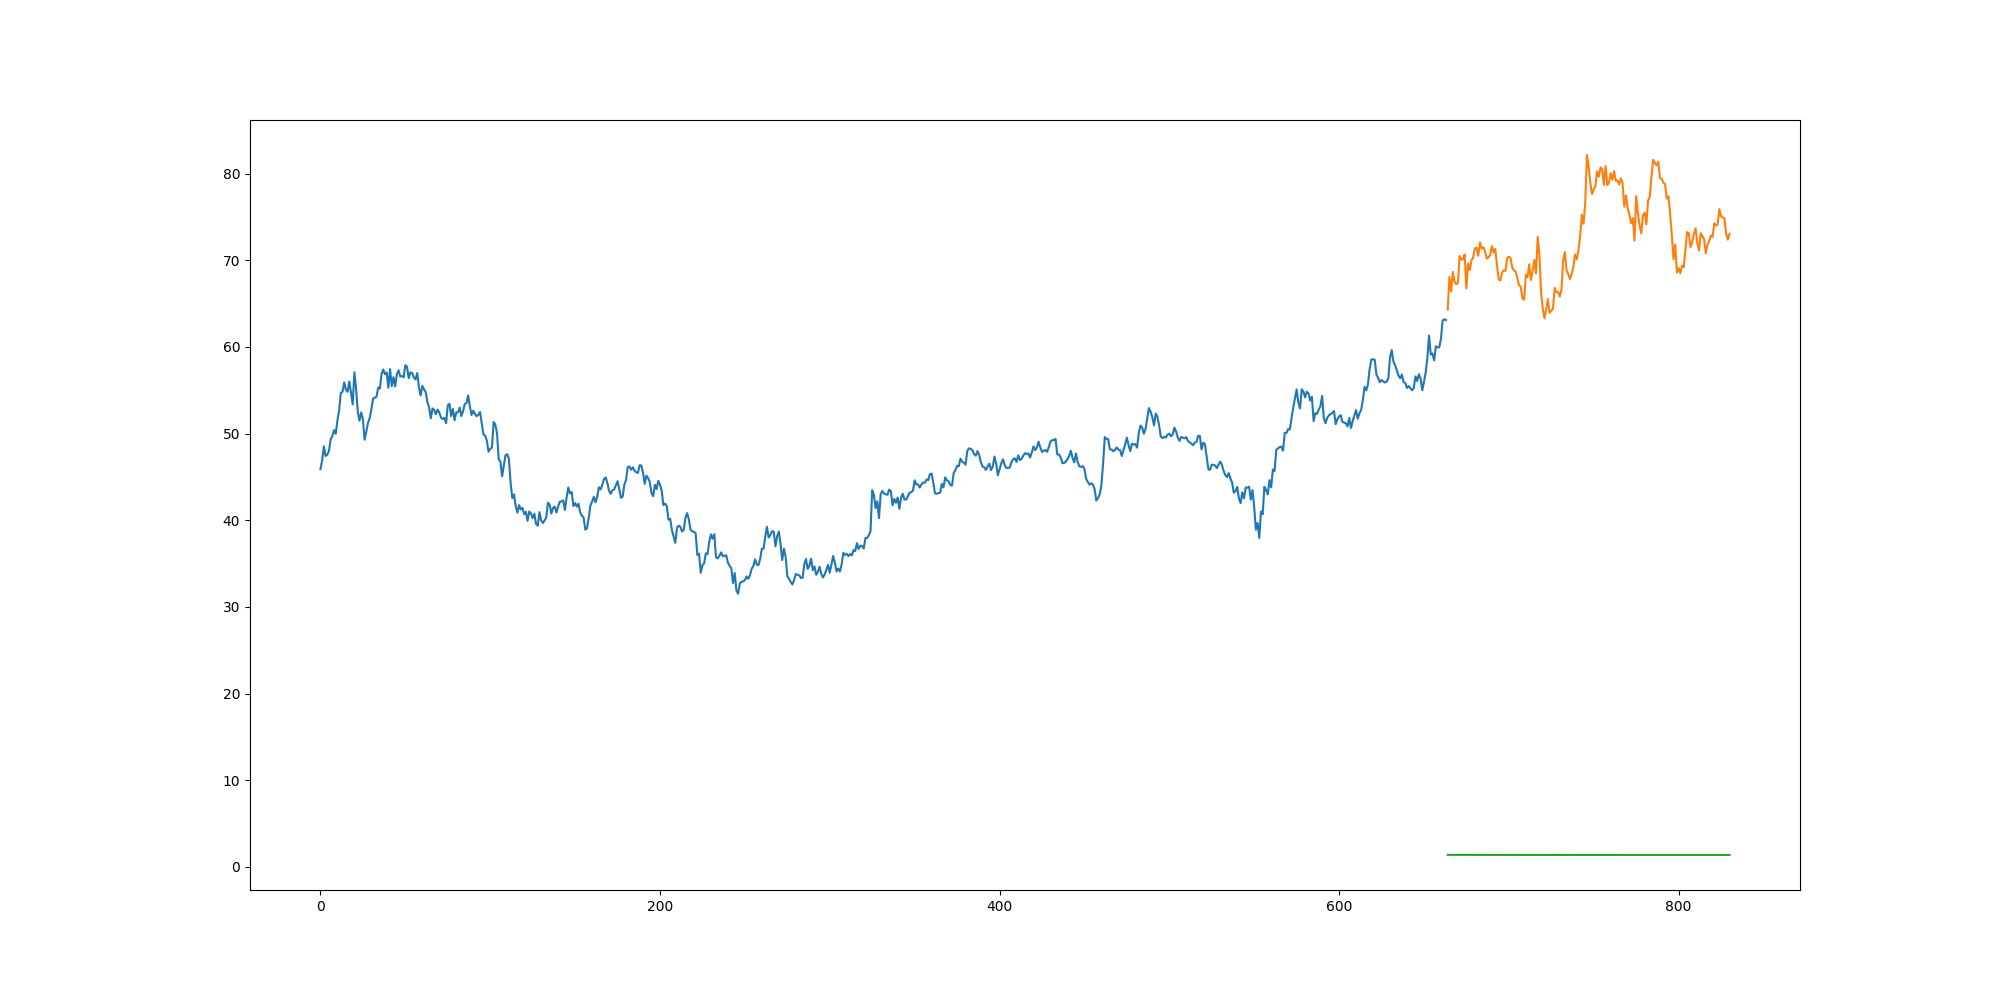
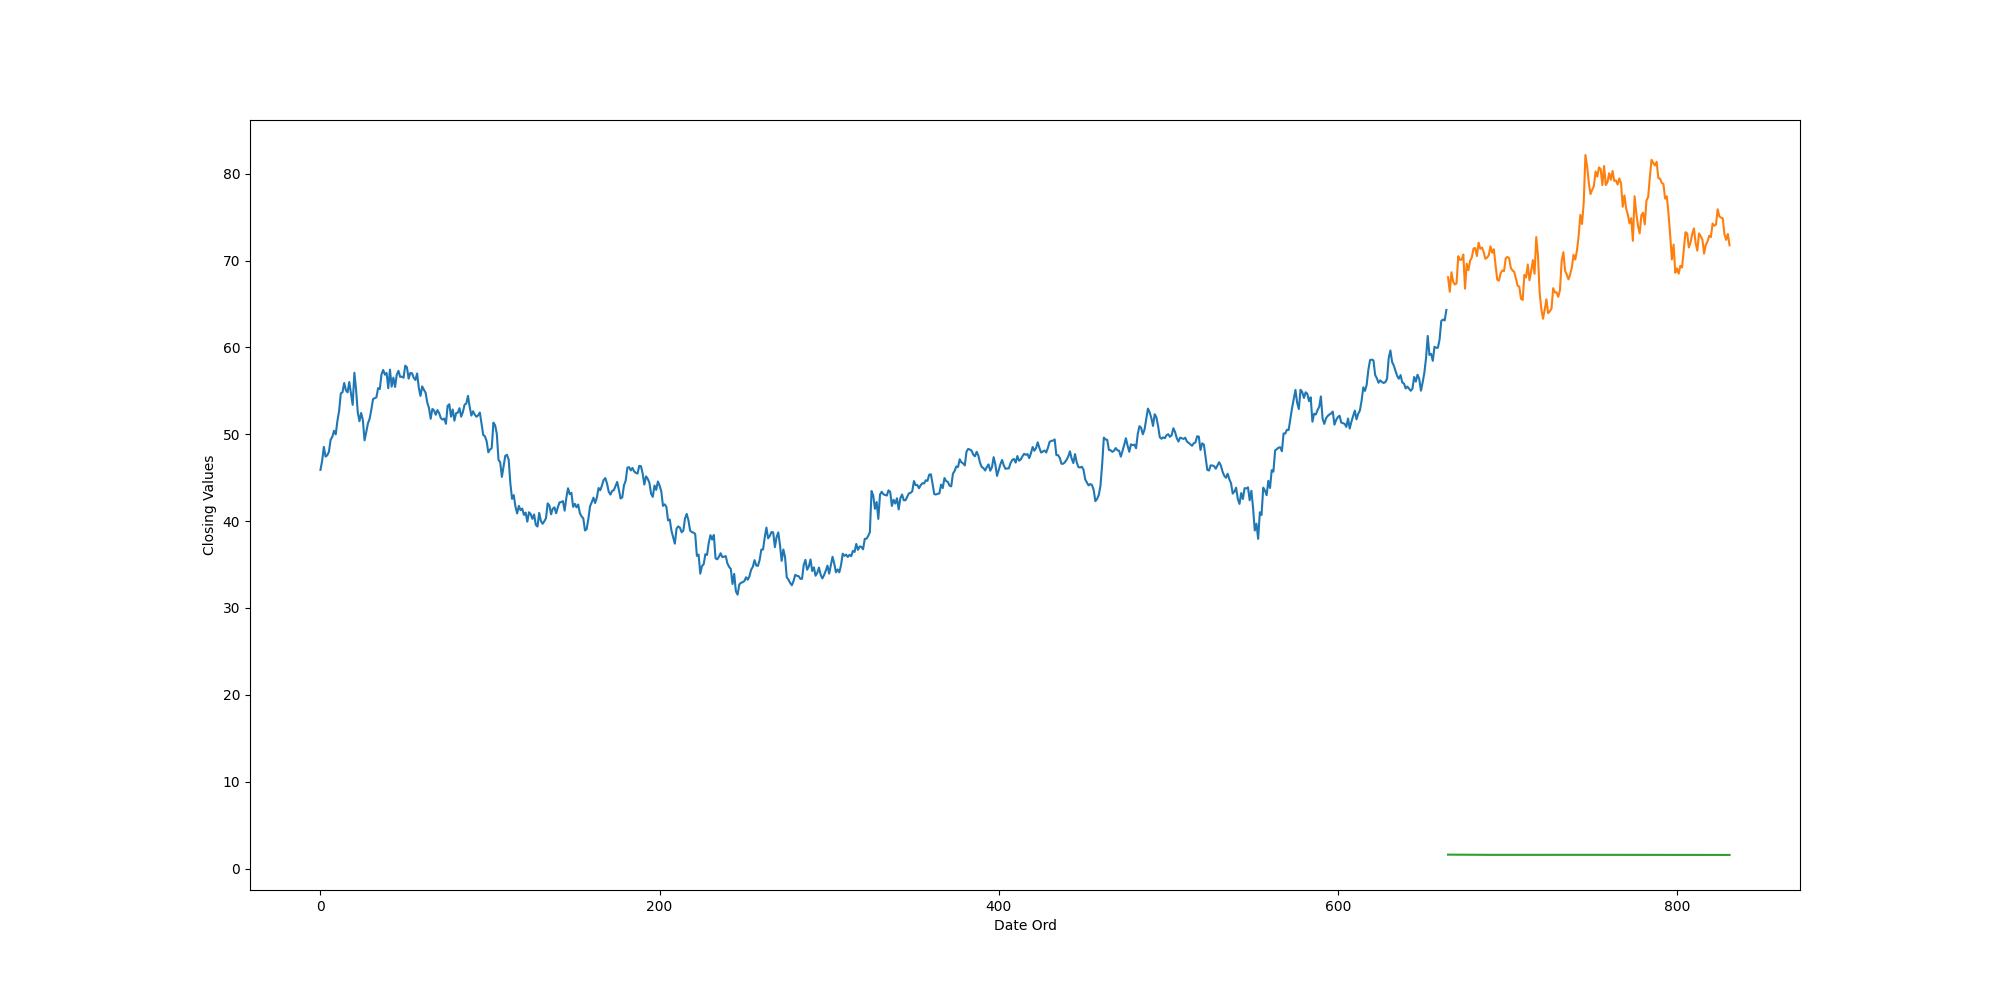
all but prediction

diff --git a/src/bugalloo.py b/src/bugalloo.py
@@ -26,27 +26,28 @@ def get_stock_data(tag: str, start_date: dt.datetime, end_date: dt.datetime) -> 
     try:
         # get it from yahoo
         data = pdr.get_data_yahoo(tag, start=start_date, end=end_date)
-        
+        # generate a index
         data.reset_index(inplace=True,drop=True)
         
+        # write it out in the og format
         data.to_csv(f'data/{tag[0]}.csv')
 
+        # so that it can be read in 
         with open(f'data/{tag[0]}.csv', 'r') as in_file:
             lines = in_file.readlines()
+        
+        # and manipulated before being exported
         with open(f'data/{tag[0]}.csv', 'w+') as out_file:
             del lines[1]
             lines[0] = lines[0].replace('Attributes', 'Date')
             for i in lines:
                 out_file.write(i)
         
-        data = pd.read_csv(f'data/{tag[0]}.csv')
-
-        # returns the data
-        return data
+        # and loaded in as a dataframe and exported out as the function
+        return pd.read_csv(f'data/{tag[0]}.csv')
 
     except :
         # if the data is wrong, return a blank one
-        
         return pd.DataFrame()
 
 
@@ -62,24 +63,27 @@ from sklearn.preprocessing import MinMaxScaler
 from platform import system as operating_system
 
 def get_predictive_model(tag:str, start_date = pd.to_datetime('2020-01-01'), end_date = dt.datetime.today()):
-
+    # pull in data from 
     df = get_stock_data(tag, start_date, end_date)
 
+    # generate the index
     df.index = df["Date"]
-    
+
+    # parse through for the trimmed dataset   
     data=df.sort_index(ascending=True,axis=0)
     new_dataset=pd.DataFrame(index=range(0,len(df)),columns=['Date','Close'])
     for i in range(0,len(data)):
         new_dataset["Date"][i]=data['Date'][i]
         new_dataset["Close"][i]=data["Close"][i]
 
+    # generate a finalized datasets
     final_dataset=new_dataset.values
     final_dataset_new = np.empty(np.shape(final_dataset))
     for i in range (0, len(final_dataset)):
         final_dataset_new[i][0] = final_dataset[i][0]
         final_dataset_new[i][1] = final_dataset[i][1]
     
-    scaler=MinMaxScaler(feature_range=(0,1))
+    # genearate scalers and training datasets
     final_dataset=new_dataset.values
     train_split = int(len(final_dataset) * .80)
     train_data=final_dataset[0:train_split,:]
@@ -88,20 +92,26 @@ def get_predictive_model(tag:str, start_date = pd.to_datetime('2020-01-01'), end
     new_dataset.drop("Date",axis=1,inplace=True)
     scaler=MinMaxScaler(feature_range=(0,1))
     scaled_data=scaler.fit_transform(final_dataset_new)
+
     x_train_data,y_train_data=[],[]
-    for i in range(60,len(train_data)):
-        x_train_data.append(scaled_data[i-60:i,0])
+    six_percent = int(len(train_data) * .06)
+    for i in range(six_percent,len(train_data)):
+        x_train_data.append(scaled_data[i-six_percent:i,0])
         y_train_data.append(scaled_data[i,0])
-        
+    
+    # finalize the trains as arrays
     x_train_data,y_train_data=np.array(x_train_data),np.array(y_train_data)
     x_train_data=np.reshape(x_train_data,(x_train_data.shape[0],x_train_data.shape[1],1))
 
+    # build the lstm model
     lstm_model=Sequential()
     lstm_model.add(LSTM(units=50,return_sequences=True,input_shape=(x_train_data.shape[1],1)))
     lstm_model.add(LSTM(units=50))
     lstm_model.add(Dense(1))
-    inputs_data=new_dataset[len(new_dataset)-len(valid_data)-60:].values
+    inputs_data=new_dataset[len(new_dataset)-len(valid_data)-six_percent:].values
     inputs_data=inputs_data.reshape(-1,1)
+    
+    # transforming is perferred but only aviable when  the data is within a proper range
     try:
         inputs_data=scaler.transform(inputs_data)   
     except :
@@ -110,8 +120,8 @@ def get_predictive_model(tag:str, start_date = pd.to_datetime('2020-01-01'), end
     lstm_model.fit(x_train_data,y_train_data,epochs=1,batch_size=1,verbose=2)
 
     x_test=[]
-    for i in range(60,inputs_data.shape[0]):
-        x_test.append(inputs_data[i-60:i,0])
+    for i in range(six_percent,inputs_data.shape[0]):
+        x_test.append(inputs_data[i-six_percent:i,0])
     x_test=np.float32(np.array(x_test))
     x_test=np.reshape(x_test,(x_test.shape[0],x_test.shape[1],1))
     
@@ -126,7 +136,8 @@ def get_predictive_model(tag:str, start_date = pd.to_datetime('2020-01-01'), end
     valid_data['Predictions']=predicted_closing_price
     plt.plot(train_data["Close"])
     plt.plot(valid_data[['Close',"Predictions"]])
-    
+    plt.ylabel('Closing Values')
+    plt.xlabel('Date Ord')
     loc = f'..\\img\\{tag}' if operating_system() == 'Windows' else f'../img/{tag}'
     try:
         plt.savefig(loc)
@@ -137,10 +148,20 @@ def get_predictive_model(tag:str, start_date = pd.to_datetime('2020-01-01'), end
         # plt.savefig(f'src\\static\\{tag}' if operating_system() == 'Windows' else f'src/static/{tag}')
 
     plt.close()
-    return os.path.abspath(loc) 
+    print(valid_data)
+    def get_predictions(data, current):
+        predictions = [f"Current: {current}"]
+        for i in [1, 7, 14, 30, 30 * 6, 365]:
+            try:
+                hit = data["Close"][train_split + i]
+                predictions.append(f"{i} day(s) {hit}")
+            except :
+                break
+        predictions.append("Please note the futher out the prediction the less accurate it becomes")
+        return predictions
+    return os.path.abspath(loc), get_predictions(train_data, new_dataset["Close"][train_split])
 
 if __name__ == '__main__':
-    print(get_predictive_model('VHC', pd.to_datetime('2018-01-01')))
-    print(get_predictive_model('UIS', pd.to_datetime('2018-01-01')))
-    print(get_predictive_model('NTDOY', pd.to_datetime('2018-01-01')))
-    print(get_predictive_model('GME', pd.to_datetime('2018-01-01')))
+    for i in sorted(['VHC', 'UIS', 'NTDOY', 'GME']):
+        print(get_predictive_model(i, pd.to_datetime('2018-01-01')))
+    
